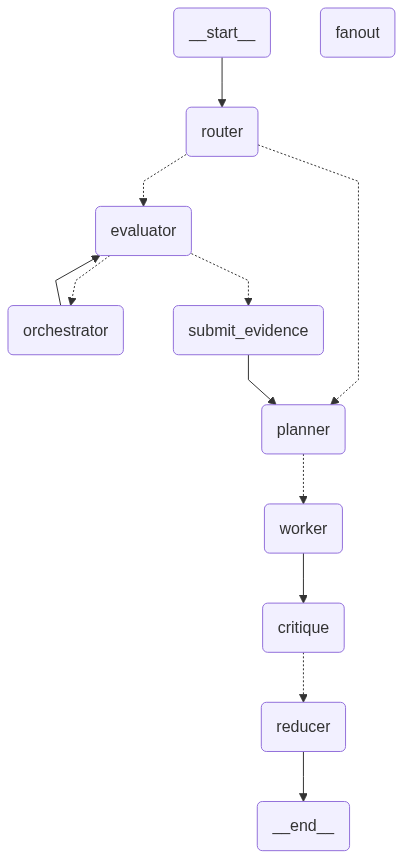
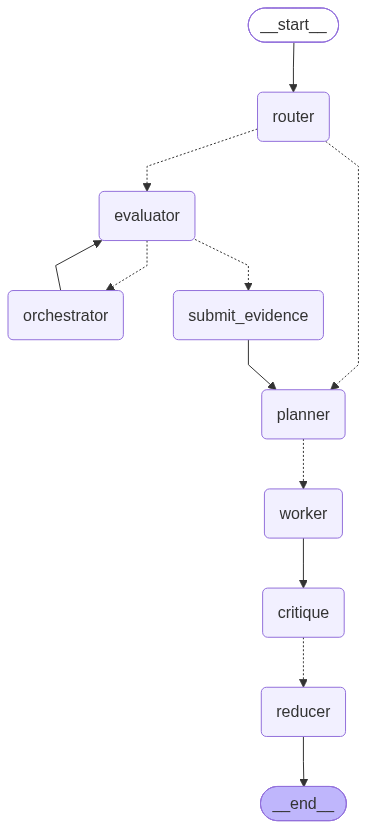
evidence_fact_checker and search_result_validator services added

diff --git a/src/nodes/orchestrator.py b/src/nodes/orchestrator.py
@@ -15,6 +15,11 @@ from src.tools import (
     web_search
 )
 from src.prompts import ORCHESTRATOR_PROMPT
+from src.services import (
+    search_result_validator,
+    evidence_fact_checker
+)
+from src.models import FetchedPageContent, EvidenceItem
 
 
 logger = logging.getLogger(__name__)
@@ -83,6 +88,9 @@ def orchestrator(state: State):
     web_search_count = state.get("web_search_count", 0)
     fetch_count = state.get("fetch_count", 0)
     collected_evidence = list(state.get("evidence", []))
+    collected_fetched_content = list(
+    state.get("fetched_page_content", [])
+    )
 
     while research_steps < MAX_RESEARCH_STEPS:
         response = ollama.chat(
@@ -132,11 +140,61 @@ def orchestrator(state: State):
 
                     result = TOOL_MAP[name].invoke(args)
 
-                    if isinstance(result, list):
-                        collected_evidence.extend(result)
-                    elif isinstance(result, dict):
-                        collected_evidence.append(result)
+                    if name == "web_search":
+                        valid_results = []
 
+                        for item in result:
+                            try:
+                                evidence = (
+                                    item
+                                    if isinstance(item, EvidenceItem)
+                                    else EvidenceItem.model_validate(item)
+                                )
+
+                                validated = search_result_validator(evidence)
+
+                                if validated is not None:
+                                    valid_results.append(validated)
+
+                            except Exception:
+                                logger.exception("Failed to validate search result")
+
+                        collected_evidence.extend(valid_results)
+
+                        # Ollama receives only the accepted results.
+                        result = [
+                            item.model_dump()
+                            for item in valid_results
+                        ]
+                    elif name == "fetch_page":
+                        valid_content = []
+
+                        try:
+                            content = (
+                                result
+                                if isinstance(result, FetchedPageContent)
+                                else FetchedPageContent.model_validate(result)
+                            )
+
+                            checked_content = evidence_fact_checker(
+                                content=content,
+                                query=args.get("url", ""),
+                                topic=state["topic"],
+                            )
+
+                            if checked_content is not None:
+                                valid_content.append(checked_content)
+
+                        except Exception:
+                            logger.exception("Failed to validate or fact-check fetched page")
+
+                        collected_fetched_content.extend(valid_content)
+
+                        # Ollama receives only the accepted content.
+                        result = [
+                            item.model_dump()
+                            for item in valid_content
+                        ]
                 except Exception as exc:
                     logger.exception("Tool execution failed: %s", name)
                     result = f"Tool error: {exc}"
@@ -149,11 +207,12 @@ def orchestrator(state: State):
                     else json.dumps(result, default=str)
                 ),
             })
-    logger.info("Page content fetched")
+
             
     return {
         "web_search_count": web_search_count,
         "evidence": collected_evidence,
         "research_steps": research_steps,
         "fetch_count": fetch_count,
+        "fetched_page_content": collected_fetched_content,
     }

diff --git a/src/nodes/worker.py b/src/nodes/worker.py
@@ -3,10 +3,16 @@ from __future__ import annotations
 import ollama
 import logging
 
-from src.models import EvidenceItem
+from src.models import (
+    EvidenceItem,
+    FetchedPageContent,
+)
 from src.config import MODEL
 from src.prompts import WORKER_PROMPT
-from src.config import WORKER_MAX_EVIDENCE
+from src.config import (
+    MAX_FETCHED_PAGES_COUNT,
+    WORKER_MAX_EVIDENCE
+)
 
 logger = logging.getLogger(__name__)
 
@@ -17,7 +23,18 @@ def worker(payload: dict) -> dict:
     task = payload["task"]
     topic = payload["topic"]
     plan = payload["plan"]
-    evidence = [EvidenceItem(**e) for e in payload.get("evidence", [])]
+
+    fetched_page_content = [
+        f if isinstance(f, FetchedPageContent)
+        else FetchedPageContent.model_validate(f)
+        for f in payload.get("fetched_page_content", [])
+    ]
+    evidence = [
+        e if isinstance(e, EvidenceItem)
+        else EvidenceItem.model_validate(e)
+        for e in payload.get("evidence", [])
+    ]
+
     mode = payload.get("mode", "closed_book")
     
     bullets_text = "\n- " + "\n- ".join(task.bullets)
@@ -28,6 +45,13 @@ def worker(payload: dict) -> dict:
             f"- {e.title} | {e.url} | {e.published_at or 'date:unknown'} | {e.snippet or 'No snippet available'}".strip()
             for e in evidence[:WORKER_MAX_EVIDENCE]
         )
+
+    fetched_page_text = ""
+    if fetched_page_content:
+            fetched_page_text = "\n".join(
+                f"- {f.url} | {f.content}".strip()
+                for f in fetched_page_content[:MAX_FETCHED_PAGES_COUNT]
+            )
         
     logger.info(f"Task id: {task.id} being processed")
 
@@ -52,7 +76,8 @@ def worker(payload: dict) -> dict:
                 f"requires_citations: {task.requires_citations}\n"
                 f"requires_code: {task.requires_code}\n"
                 f"Bullets:{bullets_text}\n\n"
-                f"Evidence (ONLY use these URLs when citing):\n{evidence_text}\n",
+                f"Evidence (DO NOT use the urls as the url's content is provided to you):\n{evidence_text}\n"
+                f"Content for all the urls:\n{fetched_page_text}\n",
             },
         ],
     )

diff --git a/src/services/evidence_fact_checker.py b/src/services/evidence_fact_checker.py
@@ -1,0 +1,59 @@
+from typing import List
+import ollama
+import logging
+
+from src.state import State
+from src.config import MODEL
+from src.models import FetchedPageContent
+from src.prompts import EVIDENCE_FACT_CHECKER_PROMPT
+
+
+logger = logging.getLogger(__name__)
+
+
+def evidence_fact_checker(
+    content: FetchedPageContent,
+    query: str,
+    topic: str
+) -> FetchedPageContent | None:
+    """Check one newly fetched page and return it if accepted"""
+    logger.info("Evidence fact checking started...")
+    try:
+        response = ollama.chat(
+            model = MODEL,
+            messages=[
+                {
+                    "role": "system",
+                    "content": EVIDENCE_FACT_CHECKER_PROMPT
+                },
+                {
+                    "role": "user",
+                    "content": (
+                        f"Topic: {topic}\n"
+                        f"Query: {query}\n"
+                        f"URL: {content.url}\n"
+                        f"Fetched content:\n{content.content}"
+                    ),
+                },
+            ],
+            options={"temperature": 0},
+        )
+
+        result = response.message.content.strip().lower()
+
+        logger.info(f"Evidence was based on the facts? {result}")
+
+        if result == "true":
+            return content
+        else:
+            logger.warning(
+                f"""Rejected fetched content with url: 
+                {content.url} and content: {content.content}"""
+            )
+    
+    except Exception:
+        logger.exception(
+            "Error fact-checking page %s",
+            content.url,
+        )
+        return None

diff --git a/src/tools/fetch_page.py b/src/tools/fetch_page.py
@@ -3,6 +3,7 @@ from bs4 import BeautifulSoup
 import logging
 from langchain_core.tools import tool
 
+from src.models import FetchedPageContent
 from src.config import (
     MAX_CHARACTERS,
     TIMEOUT
@@ -16,8 +17,10 @@ logger = logging.getLogger(__name__)
 def fetch_page(
         url: str,
         max_characters: int = MAX_CHARACTERS
-) -> str:
+) -> list[dict]:
     """Fetch a webpage and return its cleaned content"""
+
+    logger.info(f"Started to fetch page content from url: {url}")
 
     if max_characters <= 0:
         logger.error("max_characters must be positive and more than zero")
@@ -37,6 +40,8 @@ def fetch_page(
         )
         response.raise_for_status()
 
+        logger.info(f"Status of the fetching: {response.raise_for_status()}")
+
     except requests.exceptions.RequestException:
         logger.exception("Error occurred while fetching webpage: %s", url)
         raise
@@ -50,4 +55,9 @@ def fetch_page(
 
     text = " ".join(text.split())
 
-    return text[:MAX_CHARACTERS]
+    logger.info(f"content of page:\n{text}")
+
+    return {
+        "url": url,
+        "content": text 
+    }

diff --git a/src/services/search_result_validator.py b/src/services/search_result_validator.py
@@ -1,0 +1,35 @@
+import requests
+import logging
+from typing import List
+
+from src.state import State
+from src.models import EvidenceItem
+
+
+logger = logging.getLogger(__name__)
+
+
+def search_result_validator(evidence: EvidenceItem) -> EvidenceItem | None:
+    """Validate one search result URL."""
+    logger.info("Validation of evidence (url) started...")
+    try:
+        response = requests.get(
+            evidence.url,
+            timeout=10,
+            allow_redirects=True
+        )
+            
+        if response.status_code == 200:
+            logger.info("Evidence (url) is valid")
+            return evidence
+        else:
+            logger.warning(
+                f"""Removing inaccessible evidence: 
+                {evidence.url} with status code {response.status_code}""")
+    except requests.RequestException as e:
+        logger.warning(
+            f"""Falied to access evidence for {evidence.url}
+            with an exception {e}"""
+        )
+
+    return None

diff --git a/src/tools/web_search.py b/src/tools/web_search.py
@@ -79,6 +79,16 @@ def web_search(query: str, max_results: int = 5) -> List[dict]:
             )
             continue
 
+        logger.info(
+            "Tavily search result: title=%s, url=%s, snippet=%s, "
+            "published_at=%s, source=%s",
+            r.get("title") or "",
+            r.get("url") or "",
+            r.get("content") or r.get("snippet") or "",
+            r.get("published_date") or r.get("published_at"),
+            r.get("source"),
+        )
+
         normalized.append(
             {
                 "title": r.get("title") or "",

diff --git a/src/state.py b/src/state.py
@@ -5,7 +5,8 @@ from langgraph.graph.message import add_messages
 from src.models.plan import Plan
 from src.models import (
     EvidenceItem,
-    CritiqueResponse
+    CritiqueResponse,
+    FetchedPageContent
 )
 
 
@@ -31,6 +32,9 @@ class State(TypedDict):
     research_steps: int
     fetch_count: int
     web_search_count: int
+
+    # fetch page contents
+    fetched_page_content: list[FetchedPageContent]
 
     # submit_evidence result
     approved_evidence: list[dict]

diff --git a/src/nodes/__init__.py b/src/nodes/__init__.py
@@ -6,8 +6,8 @@ from .router import router_node
 from .research import research_node
 from .orchestrator import orchestrator
 from .evaluator import evaluator
-from .submit_evidence import submit_evidence
 from .critique import critique
+from .submit_evidence import submit_evidence
 
 __all__ = [
     "planner",

diff --git a/src/prompts/__init__.py b/src/prompts/__init__.py
@@ -29,3 +29,7 @@ EVALUATOR_PROMPT = (PROMPTS_DIR / "evaluator_prompt.md").read_text(
 CRITIQUE_PROMPT = (PROMPTS_DIR / "critique_prompt.md").read_text(
     encoding="utf-8"
 )
+
+EVIDENCE_FACT_CHECKER_PROMPT = (PROMPTS_DIR / "evidence_fact_checker_prompt.md").read_text(
+    encoding="utf-8"
+)

diff --git a/src/config/__init__.py b/src/config/__init__.py
@@ -11,7 +11,8 @@ from .config import (
     ASSETS_DIR,
     CRITIQUE_PASS_SCORE,
     MAX_REVISIONS,
-    MAX_WEB_SEARCH_COUNT
+    MAX_WEB_SEARCH_COUNT,
+    MAX_FETCHED_PAGES_COUNT
 )
 
 from .logging_config import setup_logging

diff --git a/src/graph/graph.py b/src/graph/graph.py
@@ -65,7 +65,6 @@ graph.add_node("orchestrator", orchestrator)
 graph.add_node("evaluator", evaluator)
 graph.add_node("submit_evidence", submit_evidence)
 graph.add_node("critique", critique)
-graph.add_node("fanout", fanout)
 
 
 

diff --git a/src/nodes/submit_evidence.py b/src/nodes/submit_evidence.py
@@ -25,7 +25,7 @@ def submit_evidence(state: State) -> dict:
     )
 
     for item in items:
-        url = item.get("url")
+        url = item.url
 
         if not isinstance(url, str) or not url.strip():
             continue
